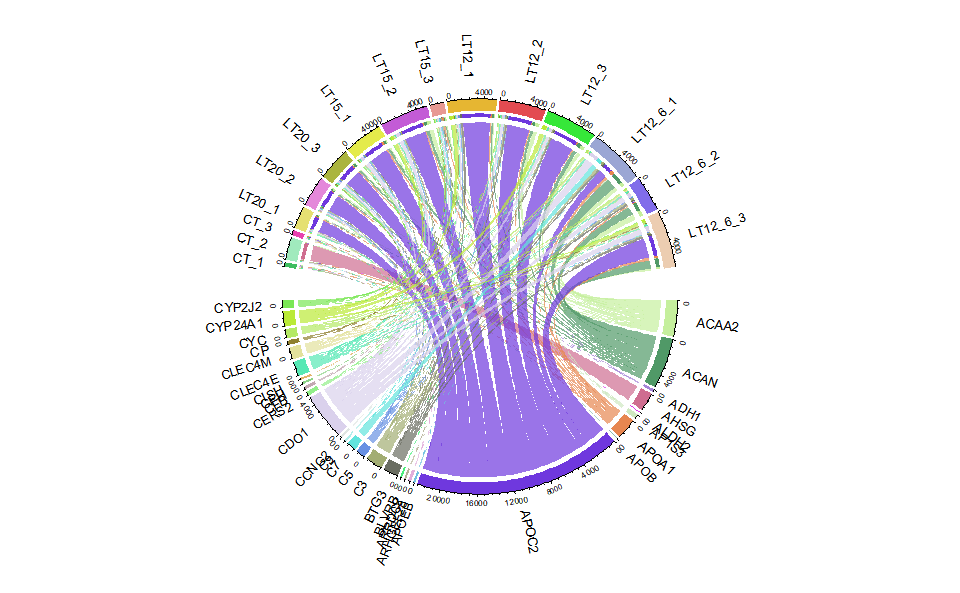
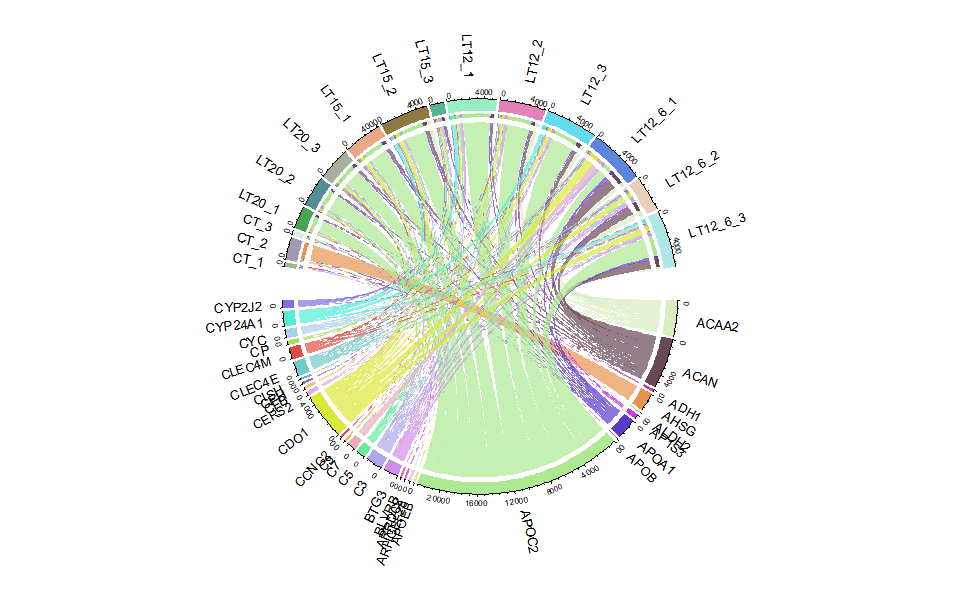
Update README

Changed region(s): [[0.2812, 0.1518, 0.7188, 0.8499]]

diff --git a/README.md b/README.md
@@ -27,7 +27,7 @@ alt="TOmicsVis Shinyapp" />
 <figcaption aria-hidden="true">TOmicsVis Shinyapp</figcaption>
 </figure>
 
-[![](https://cranlogs.r-pkg.org/badges/grand-total/TOmicsVis?color=orange)](https://cran.rstudio.com/web/packages/TOmicsVis/index.html)
+[![](https://cranlogs.r-pkg.org/badges/grand-total/TOmicsVis?color=orange)](https://cran.r-project.org/package=TOmicsVis)
 
 **1.2.1 Install required packages from Bioconductor:**
 
@@ -1072,12 +1072,12 @@ chord_plot(
 ![](man/figures/README-chord_plot-1.png)<!-- -->
 
     #>      rn   cn value1 value2 o1 o2      x1     x2       col
-    #> 1 ACAA2 CT_1  24.50  24.50 15 30 3779.75 394.66 #C5EF9DB2
-    #> 2  ACAN CT_1  14.97  14.97 15 29 5349.40 370.16 #509967B2
-    #> 3  ADH1 CT_1   1.54   1.54 15 28  166.82 355.19 #A685D7B2
-    #> 4  AHSG CT_1   0.00   0.00 15 27 1911.99 353.65 #CF6D90B2
-    #> 5 ALDH2 CT_1   2.07   2.07 15 26   11.11 353.65 #DA3AEBB2
-    #> 6 AP1S3 CT_1   6.62   6.62 15 25  430.19 351.58 #CFE8C1B2
+    #> 1 ACAA2 CT_1  24.50  24.50 15 30 3779.75 394.66 #DAECC0B2
+    #> 2  ACAN CT_1  14.97  14.97 15 29 5349.40 370.16 #694858B2
+    #> 3  ADH1 CT_1   1.54   1.54 15 28  166.82 355.19 #C047A3B2
+    #> 4  AHSG CT_1   0.00   0.00 15 27 1911.99 353.65 #E7934EB2
+    #> 5 ALDH2 CT_1   2.07   2.07 15 26   11.11 353.65 #71EC4AB2
+    #> 6 AP1S3 CT_1   6.62   6.62 15 25  430.19 351.58 #D334EDB2
 
 Get help using command `?TOmicsVis::chord_plot` or reference page
 <https://benben-miao.github.io/TOmicsVis/reference/chord_plot.html>.
